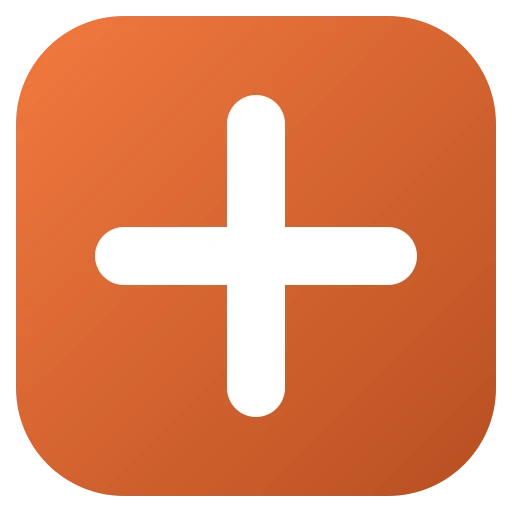
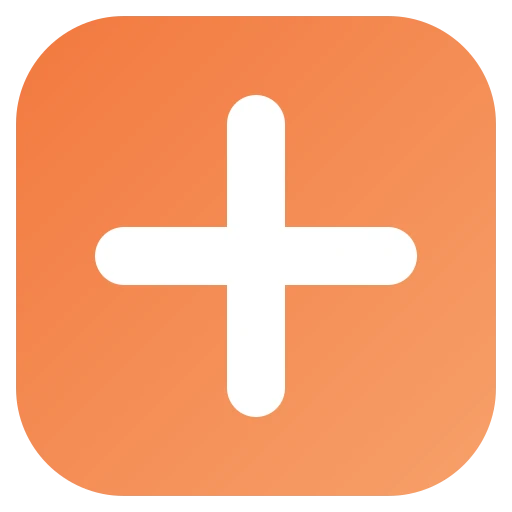
feat: update demo success message and sticker colors

diff --git a/app/components/DemoRequestButton.tsx b/app/components/DemoRequestButton.tsx
@@ -30,7 +30,7 @@ export default function DemoRequestButton({ className }: { className: string }) 
             <h2 id={`${id}-title`} className="mb-2 text-xl font-black">
               درخواست شما ثبت شد
             </h2>
-            <p className="mb-6 text-sm text-ink-400">تیم مدیلینک بهزودی با شما تماس میگیرد.</p>
+            <p className="mb-6 text-sm text-ink-400">کارشناسان مدیلینک بهزودی با شما ارتباط میگیرند.</p>
             <button
               type="button"
               onClick={() => dialogRef.current?.close()}
